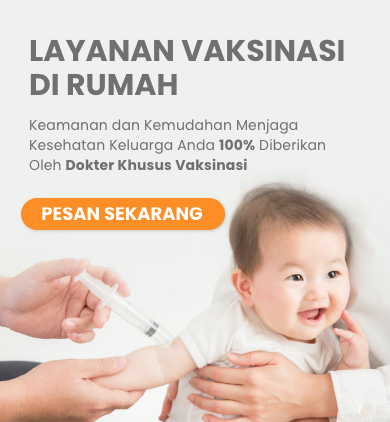
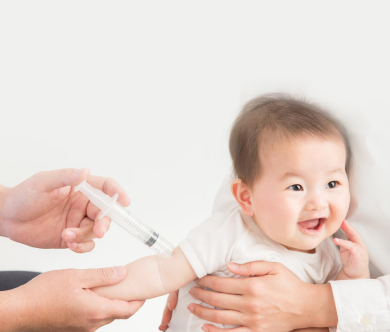
repair header style and footer and etc

diff --git a/pages/index.tsx b/pages/index.tsx
@@ -18,6 +18,12 @@ import { FontAwesomeIcon } from "@fortawesome/react-fontawesome";
 import { faDownload } from "@fortawesome/free-solid-svg-icons";
 import Link from "next/link";
 import Alamat from "../assets/Alamat.png";
+import Help from "../assets/Help.png";
+import WaLogo from "../assets/wa-logo.png";
+import LogoRounded from "../assets/logo-rounded.png";
+import FbLogo from "../assets/fb-logo.png";
+import IgLogo from "../assets/ig-logo.png";
+import AvensiLogo from "../assets/avensi-logo.png";
 
 interface LayoutProps {
   title: string;
@@ -44,11 +50,39 @@ const Index: React.FC<LayoutProps> = () => {
   return (
     <Layout>
       <FloatButton icon={<WhatsAppOutlined />} onClick={NavigateWa} />
-      <div className="p-4">
-        <section className="bg-center bg-no-repeat bg-[url('../assets/Headline.png')] w-96 h-96 ">
-          <div className="px-4 text-red-600 mx-auto max-w-screen-xl text-right pt-24 lg:pt-56"></div>
+      <div className="p-4 -mt-10">
+        <section
+          className="bg-center bg-no-repeat bg-[url('../assets/Headline.png')] w-96"
+          style={{ height: "600px" }}
+        >
+          <div className="px-4 text-red-600 mx-auto max-w-screen-xl text-left pt-10">
+            <h1
+              className="text-4xl font-poppins font-semibold"
+              style={{ color: "#707070" }}
+            >
+              Layanan Vaksinasi di Rumah
+            </h1>
+            <p
+              className="font-lg font-poppins font-normal mt-2"
+              style={{ color: "#707070" }}
+            >
+              Keamanan dan Kemudahan Menjaga <br /> Kesehatan Keluarga Anda{" "}
+              <strong>100%</strong>
+              Diberikan
+              <br /> Oleh <strong> Dokter Khusus Vaksinasi</strong>
+            </p>
+            <div
+              className="mt-5 font-bold h-10 w-40 flex items-center justify-center text-white rounded-full cursor-pointer hover:bg-orange-300 p-1"
+              style={{ backgroundColor: "#FD8D25" }}
+            >
+              PESAN SEKARANG
+            </div>
+          </div>
         </section>
-        <section className="border-black bg-center -mt-32 bg-no-repeat bg-[url('../assets/Dokter-Pengawas.png')] w-96 h-96 ">
+        <section
+          className="border-black bg-center bg-no-repeat bg-[url('../assets/Dokter-Pengawas.png')] w-96 h-96 "
+          style={{ marginTop: "-265px" }}
+        >
           <div className="text-red-600 mx-auto max-w-screen-xl text-right"></div>
         </section>
         {/* <section className="bg-center mt-32 bg-no-repeat bg-[url('../assets/Content.png')] w-96 h-96 ">
@@ -56,8 +90,17 @@ const Index: React.FC<LayoutProps> = () => {
             <h1>hello world</h1>
           </div>
         </section> */}
-        <section className="-mt-20 ">
-          <Image src={Content} alt="content image" />
+        <section className="-mt-20">
+          {/* <Image src={Content} alt="content image" /> */}
+          <div className="flex justify-center">
+            <h1
+              className="p-4 justify-center font-bold text-2xl text-justify"
+              style={{ color: "#707070" }}
+            >
+              Kelebihan Memilih Vaksin <br /> di Rumah dari
+              <b style={{ color: "#19A6A0" }}> Cepat Sehat</b>
+            </h1>
+          </div>
         </section>
         <section className="mt-6">
           <Image src={JadwalVaksin} alt="content image" />
@@ -109,14 +152,92 @@ const Index: React.FC<LayoutProps> = () => {
             </h1>
           </div>
         </section>
-        <section className="mt-6">
-          <div className="flex font-medium justify-center">
-            <Image src={AskQuestion} alt="content image" />
+        <section className="mt-3 p-4">
+          <div
+            className="rounded-lg flex-col justify-center gap-2"
+            style={{
+              border: "",
+              backgroundColor: "#00BAB9",
+              height: "auto",
+              padding: "2px",
+            }}
+          >
+            <div className="flex gap-2 p-2 ">
+              <div className=" h-full flex justify-end">
+                <Image
+                  src={Help}
+                  alt="help-button"
+                  className="w-auto h-5 mt-1"
+                />
+              </div>
+              <div className="text-white font-bold font-poppins text-sm">
+                Ada Pertanyaan? Tim kami siap membantu kamu secara langsung
+              </div>
+            </div>
+            <div
+              style={{
+                backgroundColor: "#00bab9",
+                width: "200px",
+                height: "30px",
+                border: "solid 2px white",
+              }}
+              className="flex rounded-full gap-1 cursor-pointer text-center font-poppins text-white p-1 mx-auto mb-5 text-xs justify-center"
+            >
+              <div className="">
+                <Image src={WaLogo} alt="wa-log" width={20} />
+              </div>
+              <h1>Hubungi melalui WhatsApp</h1>
+            </div>
           </div>
         </section>
-        <footer className="mt-12">
-          <div className="flex font-medium justify-center ">
-            <Image src={Alamat} width={"1000"} alt="content image" />
+        <footer>
+          <div className="flex gap-3 justify-between  w-full p-4 mx-auto">
+            <div className="flex-none  w-2/4 gap-2">
+              <div className="flex gap-3 items-center">
+                <div className="">
+                  <Image src={LogoRounded} alt="logo-rounded" height={50} />
+                </div>
+                <div className="h-full flex-none">
+                  <h1 className="font-poppins font-semibold text-lg h-10 items-center flex">
+                    Cepat Sehat
+                  </h1>
+                </div>
+              </div>
+              <div className="flex justify-end gap-2 pr-24">
+                <Image src={FbLogo} alt="fb-logo" className="h-35 w-35" />
+                <Image src={IgLogo} alt="ig-logo" className="h-35 w-35" />
+              </div>
+            </div>
+            <div className="h-auto flex-col justify-end  w-full mt-3">
+              <h1 className="text-left flex justify-end w-full  font-poppins font-normal text-medium h-16">
+                Member of Aliansi Telemedik Indonesia
+              </h1>
+              <div className=" mt-2">
+                <Image
+                  src={AvensiLogo}
+                  alt="avensi-logo"
+                  className="text-center"
+                />
+              </div>
+            </div>
+          </div>
+          <div className="w-full p-4 mx-auto">
+            <div className="flex-none mx-auto w-4/4 gap-2 pl-14">
+              <h1 className="font-poppins font-semibold text-lg h-10 items-center flex">
+                Alamat Kami
+              </h1>
+              <h2 className="font-poppins font-thin text-sm">
+                <span className="font-poppins font-semibold text-lg">
+                  Klinik Cepat
+                </span>{" "}
+                <br /> Sehat Jl. Peternakan No.13 RT.5/RW.1 Kp.Tengah,Kec.
+                <br /> Kramat Jati, Jakarta. Daerah Khusus Ibukota Jakarta 13540
+                0822 1118 9009
+              </h2>
+            </div>
+          </div>
+          <div className="w-full text-center mt-10">
+            <h1>Copyright © 2022 Cepat Sehat. All Rights Reserved</h1>
           </div>
         </footer>
       </div>

diff --git a/styles/globals.css b/styles/globals.css
@@ -1,7 +1,11 @@
 @tailwind base;
 @tailwind components;
 @tailwind utilities;
+@import url("https://fonts.googleapis.com/css2?family=Poppins:wght@300&family=Urbanist&display=swap");
 
+.font-poppins {
+  font-family: "Poppins", sans-serif;
+}
 .max-w-layout {
   max-width: 480px;
 }
